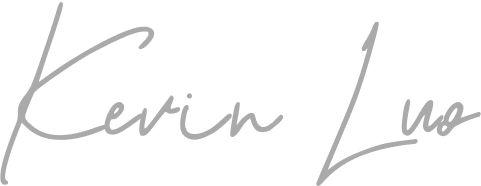
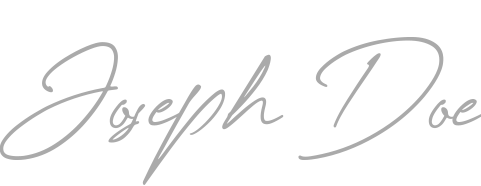
Chefs' section

Changed region(s): [[0.0, 0.0, 0.5925, 0.9946], [0.6237, 0.1075, 1.0, 1.0]]

diff --git a/src/container/Chef/Chef.jsx b/src/container/Chef/Chef.jsx
@@ -21,8 +21,8 @@ const Chef = () => (
         <p className="p__opensans">The Tender, Juicy Meat Pairs Perfectly With The Crispy, Aromatic Vegetables, And The Sauce Is Like A Symphony Of Spices On The Tongue.</p>
       </div>
       <div className="app__chef-sign">
-        <p>Stephen Muambi</p>
-        <p className="p__opensans">Q & A Officer</p>
+        <p>Joseph Doe</p>
+        <p className="p__opensans">Celebrated Chef</p>
         <img src={images.sign} alt="sign" />
       </div>
     </div>

diff --git a/src/container/Chef/Chef.css b/src/container/Chef/Chef.css
@@ -33,13 +33,14 @@
 
 }
 .app__chef-sign img {
-    width: 250px;
-    margin-top: 3rem;
+    width: 400px;
+    margin-top: 1rem;
+    margin-right: 6rem;
 }
 
 @media screen and (max-width: 2000px){
     .app__chef-sign img {
-        width: 350px;
+        width: 400px;
        
     }
 }
